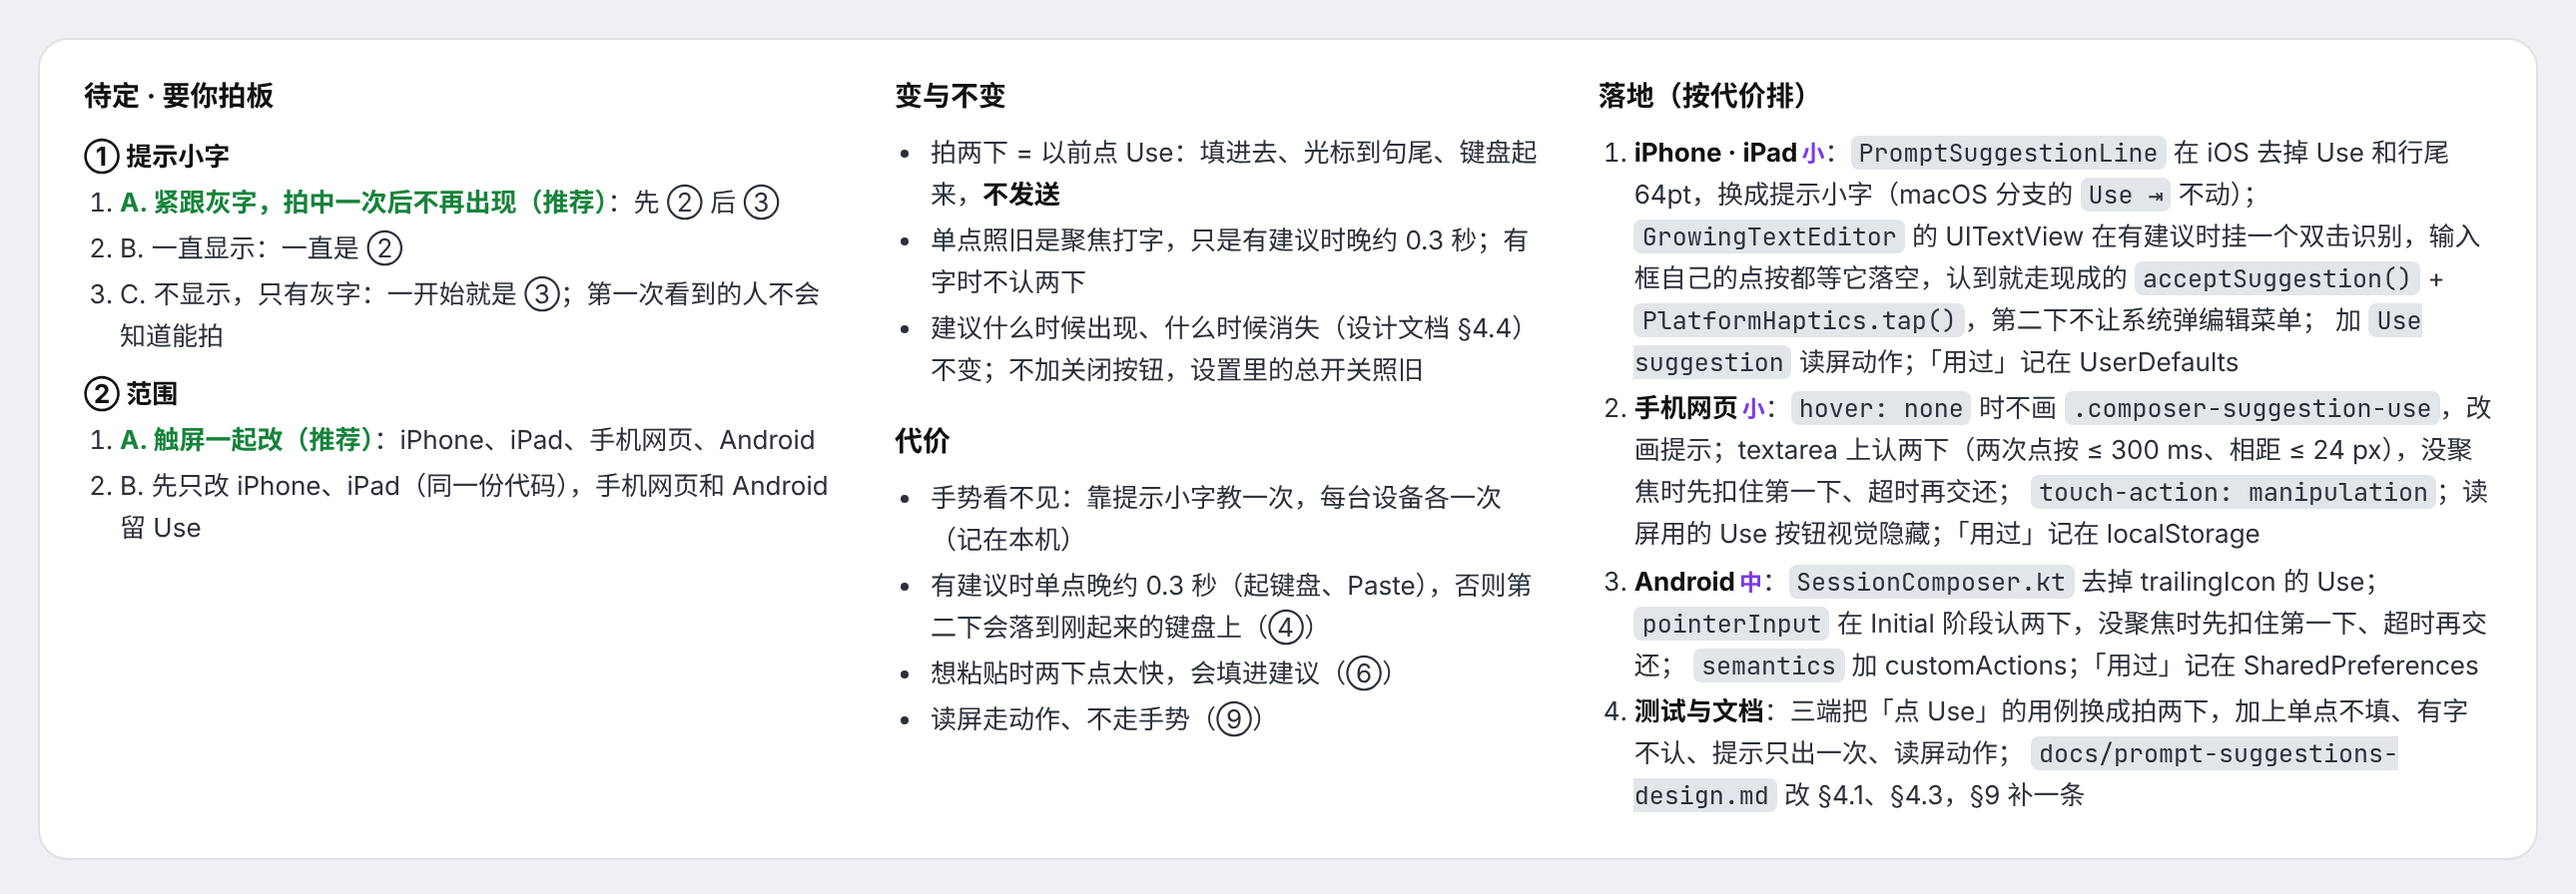
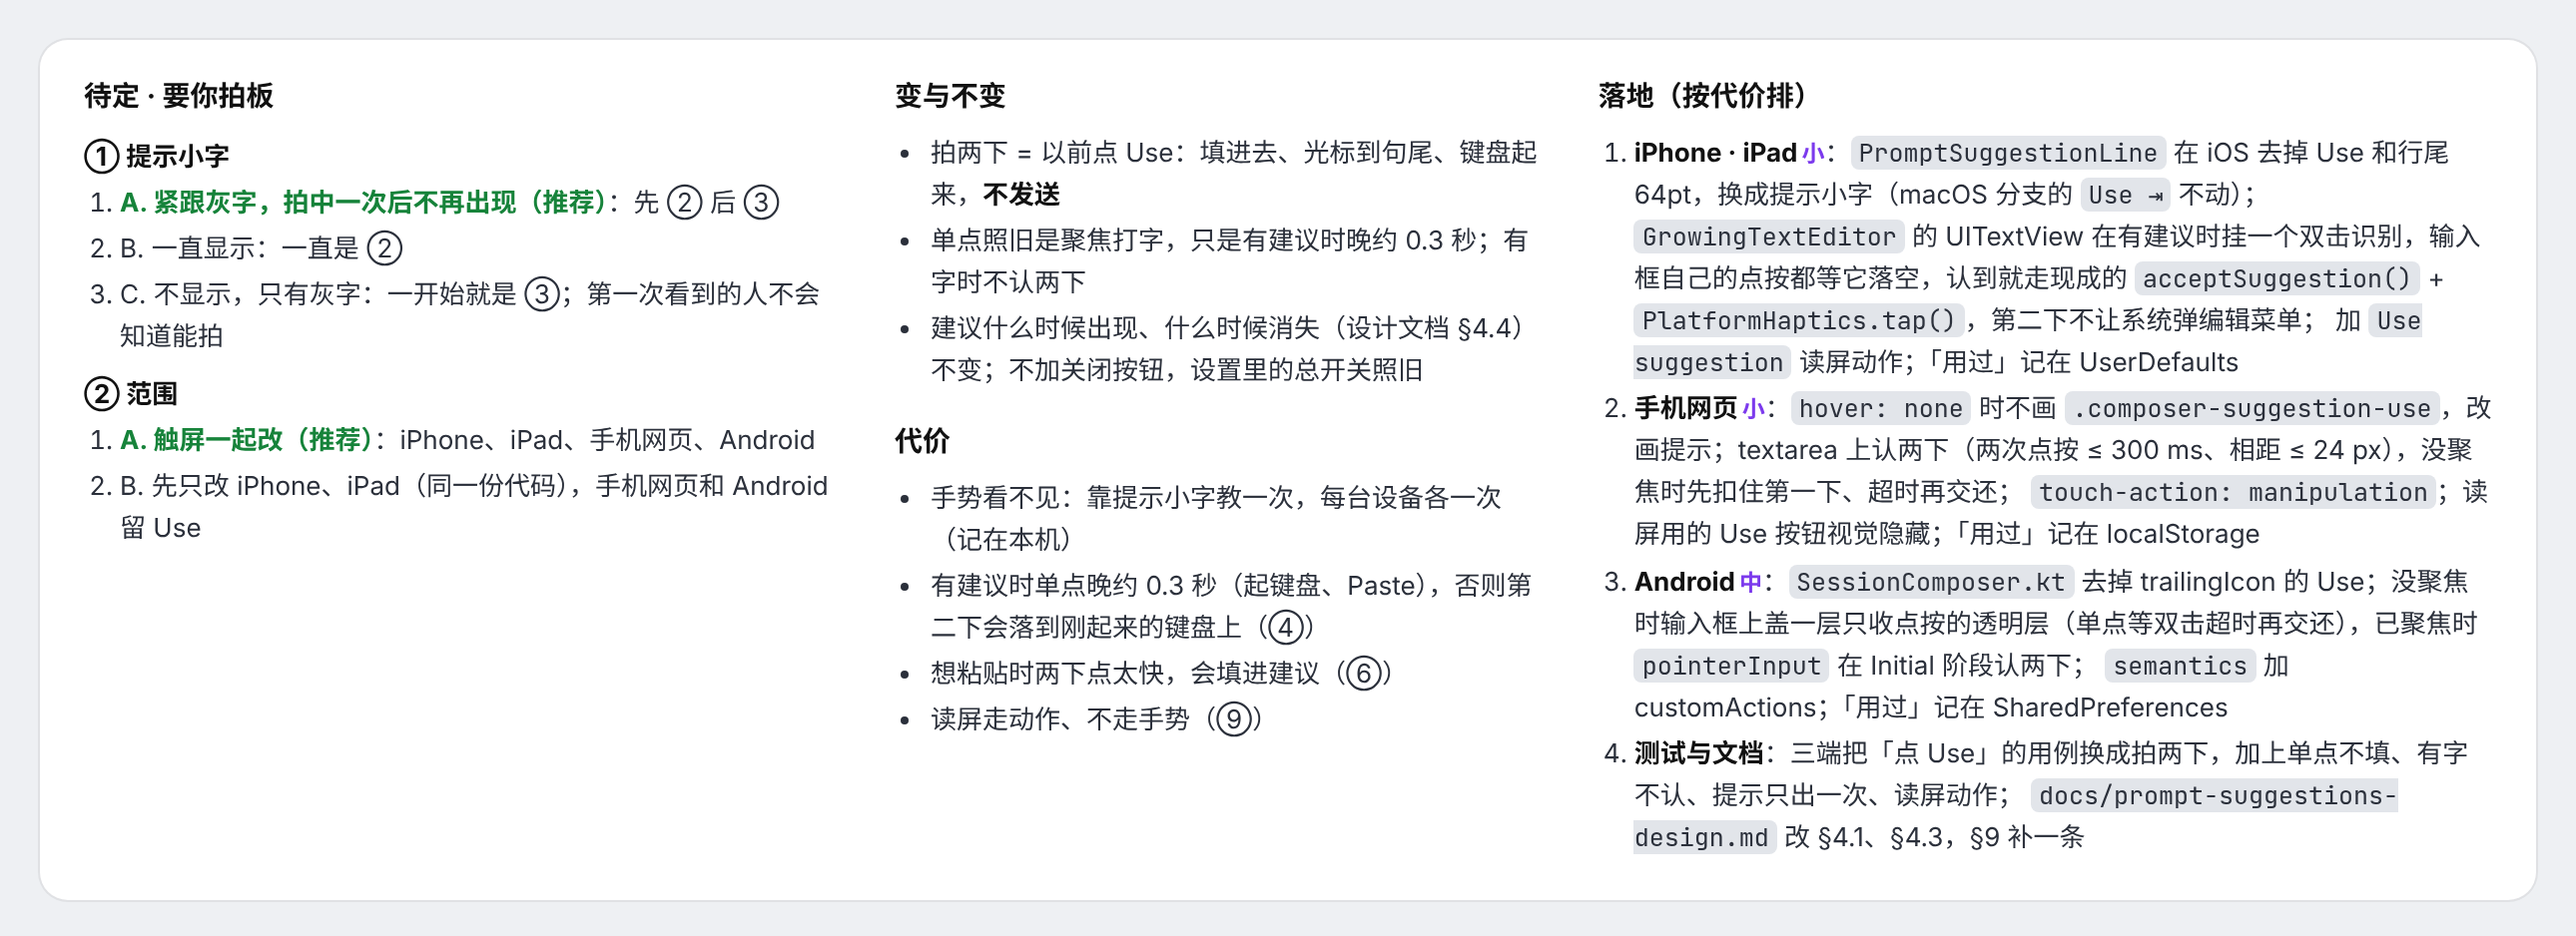
fix(android): hold an unfocused field's first tap under a tap catcher
Consuming the first tap in the Initial pass did not keep focus off the
field: the text field's own selection gesture starts on the second
press's down whatever its consumption, and that focuses it. While a
suggestion is offered and the field is not focused, a transparent
catcher now lies over it (SuggestionTaps, Compose's detectTapGestures):
a double-tap takes the guess, and a lone tap or a long press is handed
on as focus once the double-tap timeout has passed. A focused field
keeps its own taps; Modifier.doubleTapToUse only keeps the second lift
from it.

The Robolectric test starts the field unfocused behind a focusable
placeholder, since Robolectric gives a window's first focusable focus
by itself. Design doc §4.3 and §7 and the board's landing notes follow.

diff --git a/src/android/app/src/main/kotlin/io/orbitd/android/composer/SessionComposer.kt b/src/android/app/src/main/kotlin/io/orbitd/android/composer/SessionComposer.kt
@@ -9,6 +9,7 @@ import androidx.activity.result.contract.ActivityResultContracts
 import androidx.compose.foundation.*
 import androidx.compose.foundation.gestures.awaitEachGesture
 import androidx.compose.foundation.gestures.awaitFirstDown
+import androidx.compose.foundation.gestures.detectTapGestures
 import androidx.compose.foundation.gestures.waitForUpOrCancellation
 import androidx.compose.foundation.layout.*
 import androidx.compose.foundation.shape.RoundedCornerShape
@@ -156,23 +157,25 @@ fun SessionComposer(app: OrbitApplication, handle: SessionHandle, sessionId: Str
                     state.failures[att.id]?.let { Text(it, color = MaterialTheme.colorScheme.error, style = MaterialTheme.typography.bodySmall) }
                 }
                 ComposerUsage(model, state, effective, session)
-            OutlinedTextField(field, onValueChange = { field = it; model.edit(it.text, it.selection.start, it.selection.end) },
-                modifier = Modifier.fillMaxWidth().focusRequester(focus).onFocusChanged { inputFocused = it.isFocused; inputFocusChanged(it.isFocused) }
-                    .testTag("composer-input")
-                    .doubleTapToUse(suggestion != null, inputFocused, focusField, useSuggestion)
-                    // TalkBack's own double-tap is "activate": it takes the guess with this action.
-                    .semantics { if (suggestion != null) customActions = listOf(CustomAccessibilityAction("Use suggestion") { useSuggestion(); true }) }
-                    .onPreviewKeyEvent {
-                    if (it.type == KeyEventType.KeyDown && it.key == Key.Enter && (it.isCtrlPressed || it.isMetaPressed) && field.composition == null && usable) {
-                        send(); true
-                    } else false
-                }, enabled = state.loaded,
-                placeholder = {
-                    if (suggestion != null) SuggestionPlaceholder(suggestion, showsHint = !suggestionTapLearned)
-                    else Text("Message…", maxLines = 1, overflow = TextOverflow.Ellipsis)
-                },
-                minLines = 1, maxLines = 4,
-                keyboardOptions = KeyboardOptions(imeAction = ImeAction.Default))
+            SuggestionTaps(suggestion != null, inputFocused, focusField, useSuggestion) { taps ->
+                OutlinedTextField(field, onValueChange = { field = it; model.edit(it.text, it.selection.start, it.selection.end) },
+                    modifier = Modifier.fillMaxWidth().focusRequester(focus).onFocusChanged { inputFocused = it.isFocused; inputFocusChanged(it.isFocused) }
+                        .testTag("composer-input")
+                        .then(taps)
+                        // TalkBack's own double-tap is "activate": it takes the guess with this action.
+                        .semantics { if (suggestion != null) customActions = listOf(CustomAccessibilityAction("Use suggestion") { useSuggestion(); true }) }
+                        .onPreviewKeyEvent {
+                            if (it.type == KeyEventType.KeyDown && it.key == Key.Enter && (it.isCtrlPressed || it.isMetaPressed) && field.composition == null && usable) {
+                                send(); true
+                            } else false
+                        }, enabled = state.loaded,
+                    placeholder = {
+                        if (suggestion != null) SuggestionPlaceholder(suggestion, showsHint = !suggestionTapLearned)
+                        else Text("Message…", maxLines = 1, overflow = TextOverflow.Ellipsis)
+                    },
+                    minLines = 1, maxLines = 4,
+                    keyboardOptions = KeyboardOptions(imeAction = ImeAction.Default))
+            }
             }
             Row(Modifier.fillMaxWidth(), verticalAlignment = androidx.compose.ui.Alignment.CenterVertically) {
                 Box {
@@ -261,37 +264,42 @@ internal fun SuggestionPlaceholder(suggestion: String, showsHint: Boolean) = Row
         style = MaterialTheme.typography.bodySmall, maxLines = 1)
 }
 
-/** Two taps on the field within the platform's double-tap timeout run [use]. While the field is not [focused] its first tap is held
- * back from it: the keyboard that tap would raise lifts the composer, and the second tap would land on the keyboard instead. It is
- * handed on as [focus] once the timeout passes with no second tap. A focused field keeps its first tap. Either way the second tap's
- * lift is kept from the field, so it neither drops the cursor into the words it just received nor opens the text toolbar. Watched in
- * the Initial pass, ahead of the field's own gestures. */
-internal fun Modifier.doubleTapToUse(enabled: Boolean, focused: Boolean, focus: () -> Unit, use: () -> Unit): Modifier =
-    if (!enabled) this else composed {
-        val latestFocused by rememberUpdatedState(focused)
-        val latestFocus by rememberUpdatedState(focus)
-        val latestUse by rememberUpdatedState(use)
-        pointerInput(Unit) {
-            awaitEachGesture {
+/** The field, taking the engine's guess with a double-tap (docs/prompt-suggestions-design.md §4.3). While a guess is [offered] and the
+ * field is not [focused], a catcher lies over it: the keyboard a first tap would raise lifts the composer, and the second tap would land
+ * on the keyboard instead. So a lone tap there (or a long press) is held until the double-tap timeout has passed and handed on as
+ * [focus]. A focused field keeps its own taps, and only the second of two is kept from it ([doubleTapToUse]). */
+@Composable
+internal fun SuggestionTaps(offered: Boolean, focused: Boolean, focus: () -> Unit, use: () -> Unit, field: @Composable (Modifier) -> Unit) {
+    val latestFocus by rememberUpdatedState(focus)
+    val latestUse by rememberUpdatedState(use)
+    Box {
+        field(Modifier.doubleTapToUse(offered && focused, use))
+        if (offered && !focused) Box(Modifier.matchParentSize().testTag("composer-suggestion-taps").pointerInput(Unit) {
+            detectTapGestures(onDoubleTap = { latestUse() }, onLongPress = { latestFocus() }, onTap = { latestFocus() })
+        })
+    }
+}
+
+/** Two taps on a field within the double-tap timeout run [use]. The first is the field's own; the second's lift is kept from it, so it
+ * neither drops the cursor into the words it just received nor opens the text toolbar. Watched in the Initial pass, ahead of the field's
+ * own gestures. */
+internal fun Modifier.doubleTapToUse(enabled: Boolean, use: () -> Unit): Modifier = if (!enabled) this else composed {
+    val latestUse by rememberUpdatedState(use)
+    pointerInput(Unit) {
+        awaitEachGesture {
+            awaitFirstDown(requireUnconsumed = false, pass = PointerEventPass.Initial)
+            waitForUpOrCancellation(PointerEventPass.Initial) ?: return@awaitEachGesture
+            withTimeoutOrNull(viewConfiguration.doubleTapTimeoutMillis) {
                 awaitFirstDown(requireUnconsumed = false, pass = PointerEventPass.Initial)
-                val first = waitForUpOrCancellation(PointerEventPass.Initial) ?: return@awaitEachGesture
-                val held = !latestFocused
-                if (held) first.consume()
-                val second = withTimeoutOrNull(viewConfiguration.doubleTapTimeoutMillis) {
-                    awaitFirstDown(requireUnconsumed = false, pass = PointerEventPass.Initial)
-                }
-                val lift = if (second == null) null else withTimeoutOrNull(viewConfiguration.longPressTimeoutMillis) {
-                    waitForUpOrCancellation(PointerEventPass.Initial)
-                }
-                if (lift == null) {
-                    if (held) latestFocus()
-                    return@awaitEachGesture
-                }
-                lift.consume()
-                latestUse()
-            }
+            } ?: return@awaitEachGesture
+            val lift = withTimeoutOrNull(viewConfiguration.longPressTimeoutMillis) {
+                waitForUpOrCancellation(PointerEventPass.Initial)
+            } ?: return@awaitEachGesture
+            lift.consume()
+            latestUse()
         }
     }
+}
 
 /** The model chip (iOS `modelChipLabel`): the model's name, and — on a task run still on the model smart selection picked — a ✦ before
  * it on a light tint of the accent. Named aloud "Model X, effort Y", and ", picked by smart selection" while it carries the ✦. */

diff --git a/src/android/app/src/test/kotlin/io/orbitd/android/composer/SuggestionDoubleTapTest.kt b/src/android/app/src/test/kotlin/io/orbitd/android/composer/SuggestionDoubleTapTest.kt
@@ -1,6 +1,10 @@
 package io.orbitd.android.composer
 
 import androidx.activity.compose.setContent
+import androidx.compose.foundation.focusable
+import androidx.compose.foundation.layout.Box
+import androidx.compose.foundation.layout.Column
+import androidx.compose.foundation.layout.size
 import androidx.compose.material3.OutlinedTextField
 import androidx.compose.runtime.*
 import androidx.compose.ui.Modifier
@@ -10,6 +14,7 @@ import androidx.compose.ui.focus.onFocusChanged
 import androidx.compose.ui.platform.testTag
 import androidx.compose.ui.test.*
 import androidx.compose.ui.test.junit4.createAndroidComposeRule
+import androidx.compose.ui.unit.dp
 import io.orbitd.android.MainActivity
 import io.orbitd.android.TestOrbitApplication
 import io.orbitd.android.ui.OrbitTheme
@@ -46,13 +51,21 @@ class SuggestionDoubleTapTest {
     private var focusesHandedOn = 0
     private val focus = FocusRequester()
 
-    private fun field(enabled: Boolean = true) {
+    /** The composer's arrangement: the field inside [SuggestionTaps], whose own focus handler only counts here. A focusable ahead of
+     * it takes the focus Robolectric hands a window's first focusable by itself, so the field starts unfocused, as on a phone in
+     * touch mode. */
+    private fun field(offered: Boolean = true) {
         compose.runOnUiThread { compose.activity.setContent { OrbitTheme(darkTheme = false) {
-            OutlinedTextField(value, { value = it }, Modifier.testTag("field").focusRequester(focus)
-                .onFocusChanged { focused = it.isFocused }
-                .doubleTapToUse(enabled, focused, { focusesHandedOn++ }, { uses++; value = "run the tests" }))
+            Column {
+                Box(Modifier.size(1.dp).focusable())
+                SuggestionTaps(offered, focused, { focusesHandedOn++ }, { uses++; value = "run the tests" }) { taps ->
+                    OutlinedTextField(value, { value = it }, Modifier.testTag("field").focusRequester(focus)
+                        .onFocusChanged { focused = it.isFocused }.then(taps))
+                }
+            }
         } } }
         compose.waitForIdle()
+        compose.onNodeWithTag("field").assertIsNotFocused()
     }
 
     @Test fun aDoubleTapOnTheIdleFieldTakesItWithoutTheFieldEverTakingTheFirstTap() {
@@ -63,6 +76,7 @@ class SuggestionDoubleTapTest {
         assertEquals("run the tests", value)
         assertEquals("the first tap was held, so nothing was handed on", 0, focusesHandedOn)
         compose.onNodeWithTag("field").assertIsNotFocused()
+        compose.onNodeWithTag("composer-suggestion-taps").assertExists()
     }
 
     @Test fun aSingleTapOnTheIdleFieldIsHandedOnOnceTheDoubleTapTimeoutPasses() {
@@ -85,6 +99,7 @@ class SuggestionDoubleTapTest {
         compose.runOnUiThread { focus.requestFocus() }
         compose.waitForIdle()
         compose.onNodeWithTag("field").assertIsFocused()
+        compose.onAllNodesWithTag("composer-suggestion-taps").assertCountEquals(0)
         compose.onNodeWithTag("field").performTouchInput { doubleClick() }
         compose.waitForIdle()
         assertEquals(1, uses)
@@ -93,7 +108,7 @@ class SuggestionDoubleTapTest {
     }
 
     @Test fun withNoGuessTheFieldsTapsAreItsOwn() {
-        field(enabled = false)
+        field(offered = false)
         compose.onNodeWithTag("field").performTouchInput { doubleClick() }
         compose.waitForIdle()
         assertEquals(0, uses)

diff --git a/docs/mocks/prompt-suggestion-double-tap/01-board.html b/docs/mocks/prompt-suggestion-double-tap/01-board.html
@@ -506,7 +506,7 @@
         加 <code>Use suggestion</code> 读屏动作；「用过」记在 UserDefaults</li>
       <li><b>手机网页</b><span class="cost">小</span>：<code>hover: none</code> 时不画 <code>.composer-suggestion-use</code>，改画提示；textarea 上认两下（两次点按 ≤ 300 ms、相距 ≤ 24 px），没聚焦时先扣住第一下、超时再交还；
         <code>touch-action: manipulation</code>；读屏用的 Use 按钮视觉隐藏；「用过」记在 localStorage</li>
-      <li><b>Android</b><span class="cost">中</span>：<code>SessionComposer.kt</code> 去掉 trailingIcon 的 Use；<code>pointerInput</code> 在 Initial 阶段认两下，没聚焦时先扣住第一下、超时再交还；
+      <li><b>Android</b><span class="cost">中</span>：<code>SessionComposer.kt</code> 去掉 trailingIcon 的 Use；没聚焦时输入框上盖一层只收点按的透明层（单点等双击超时再交还），已聚焦时 <code>pointerInput</code> 在 Initial 阶段认两下；
         <code>semantics</code> 加 customActions；「用过」记在 SharedPreferences</li>
       <li><b>测试与文档</b>：三端把「点 Use」的用例换成拍两下，加上单点不填、有字不认、提示只出一次、读屏动作；
         <code>docs/prompt-suggestions-design.md</code> 改 §4.1、§4.3，§9 补一条</li>

diff --git a/docs/prompt-suggestions-design.md b/docs/prompt-suggestions-design.md
@@ -255,9 +255,11 @@ transcript reducer 里加三行，按 seq 顺序回放，结果天然正确：
 - **macOS / iPad**：和 iPhone 是同一个 SwiftUI `ComposerView`。iPad 同 iPhone（拍两下）；macOS 不变：`TextField`
   另接 `.onKeyPress(keys: [.tab])`，行尾是 `Use ⇥` 胶囊。
 - **Android**：`SessionComposer.kt` 的 `OutlinedTextField` 用 placeholder 写灰字（单行截断，后跟提示小字，
-  SharedPreferences `orbit.composer` 记用过），没有 trailingIcon。`Modifier.doubleTapToUse` 认两下：输入框没聚焦时
-  第一下先扣住，超时没有第二下再交还（聚焦、起键盘），已聚焦时第一下照常；第二下的抬起不交给输入框（不落光标、
-  不弹工具条）。TalkBack 走 **Use suggestion** 自定义动作，
+  SharedPreferences `orbit.composer` 记用过），没有 trailingIcon。输入框没聚焦时，上面盖一层只收点按的透明层
+  （`SuggestionTaps`，Compose 自己的 `detectTapGestures`）：拍两下填入，单点（或长按）等双击超时才交还为聚焦、
+  起键盘，理由同 §4.1。没用 Initial 阶段扣住第一下的办法，是因为输入框自己的选字手势不看 consume，第二下的按下
+  就会让它聚焦。已聚焦时去掉这层，第一下照常交给输入框，第二下的抬起不交给它（`Modifier.doubleTapToUse`：
+  不落光标、不弹工具条）。TalkBack 走 **Use suggestion** 自定义动作，
   提示小字不读。推导在 core 的 `Transcript.promptSuggestion`，判断在 `ComposerData.kt` 的 `offeredPromptSuggestion`。
 
 ### 4.4 显示规则
@@ -318,12 +320,12 @@ transcript reducer 里加三行，按 seq 顺序回放，结果天然正确：
 | apiserver | `common/prompt-suggestions-switch.ts`（新）、`queue/queue.service.ts`、`runner-api/runner-api.controller.ts` | §3.1 的规则；领取与重领的 agent 配置 |
 | apiserver | `users/dto.ts`、`users/users.controller.ts` | 账号偏好 `promptSuggestions` |
 | apiserver | `runner-api/session-activity.ts` 及 spec、`common/prompt-suggestions-switch.spec.ts`（新） | 不推进 `lastTurnAt`；规则单测 |
-| web | `lib/promptSuggestion.ts`（新）、`components/WorkspaceView.tsx`、`index.css`、`lib/queries.ts`、`pages/SettingsPage.tsx` | 推导与判断；灰字 + Tab 键帽（触屏 Use）；设置页开关 |
-| web | `lib/promptSuggestion.test.ts`、`components/WorkspaceView.promptSuggestion.test.tsx`（新） | 推导与判断；会话页出现、Use、Tab、打字让位、新消息作废、卡片在等时不出 |
+| web | `lib/promptSuggestion.ts`（新）、`components/WorkspaceView.tsx`、`index.css`、`lib/queries.ts`、`pages/SettingsPage.tsx` | 推导与判断；灰字 + Tab 键帽（触屏拍两下，2026-10-09 前是 Use）；设置页开关 |
+| web | `lib/promptSuggestion.test.ts`、`components/WorkspaceView.promptSuggestion.test.tsx`（新） | 推导与判断；会话页出现、Use（读屏）、拍两下、Tab、打字让位、新消息作废、卡片在等时不出 |
 | OrbitKit | `Models/Enums.swift`、`Transcript/TranscriptReducer.swift`、`App/Composer.swift`、`Models/Preferences.swift`、`App/SettingsHome.swift` | 新事件类型；`TranscriptState.promptSuggestion`（快照兼容）；`ComposerLogic.offeredPromptSuggestion`；偏好与设置行 |
 | OrbitKit | `PromptSuggestionTests.swift`（新）、`SettingsHomeTests.swift`、`SettingsStackWiringTests.swift` | reducer、判断、偏好、ComposerView 接线；设置行 |
-| OrbitApp | `Views/ComposerView.swift`、`Views/SettingsSheet.swift`、`Views/SettingsAdminView.swift` | 灰字 + Use；macOS Tab；iOS 与 macOS 设置开关 |
-| Android | core `Transcript.kt`、app `ComposerData.kt`、`SessionComposer.kt`、`SettingsScreen.kt` + `ic_suggestion.xml`，及两个新测试 | 推导；判断；placeholder + Use；设置开关 |
+| OrbitApp | `Views/ComposerView.swift`、`Views/SettingsSheet.swift`、`Views/SettingsAdminView.swift` | 灰字 + 拍两下（iOS，2026-10-09 前是 Use）；macOS Use ⇥ + Tab；iOS 与 macOS 设置开关 |
+| Android | core `Transcript.kt`、app `ComposerData.kt`、`SessionComposer.kt`、`SettingsScreen.kt` + `ic_suggestion.xml`，及两个新测试 | 推导；判断；placeholder + 拍两下（2026-10-09 前是 Use，新测试 `SuggestionDoubleTapTest`）；设置开关 |
 
 ---
 
